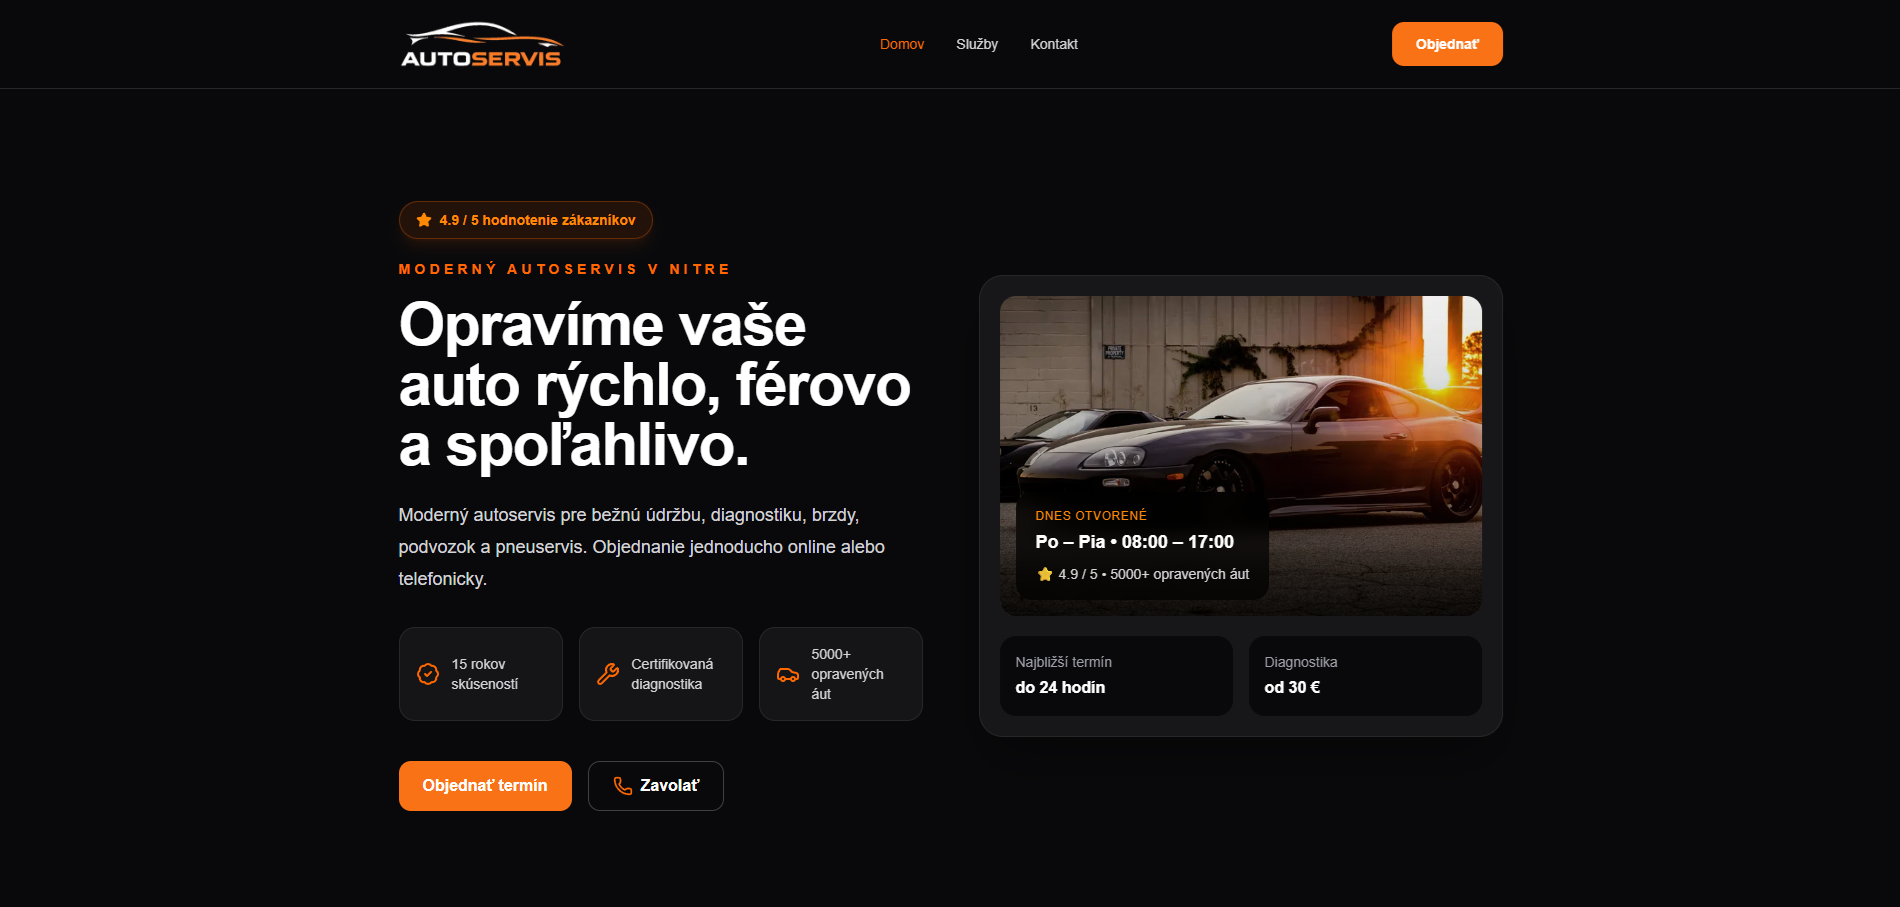
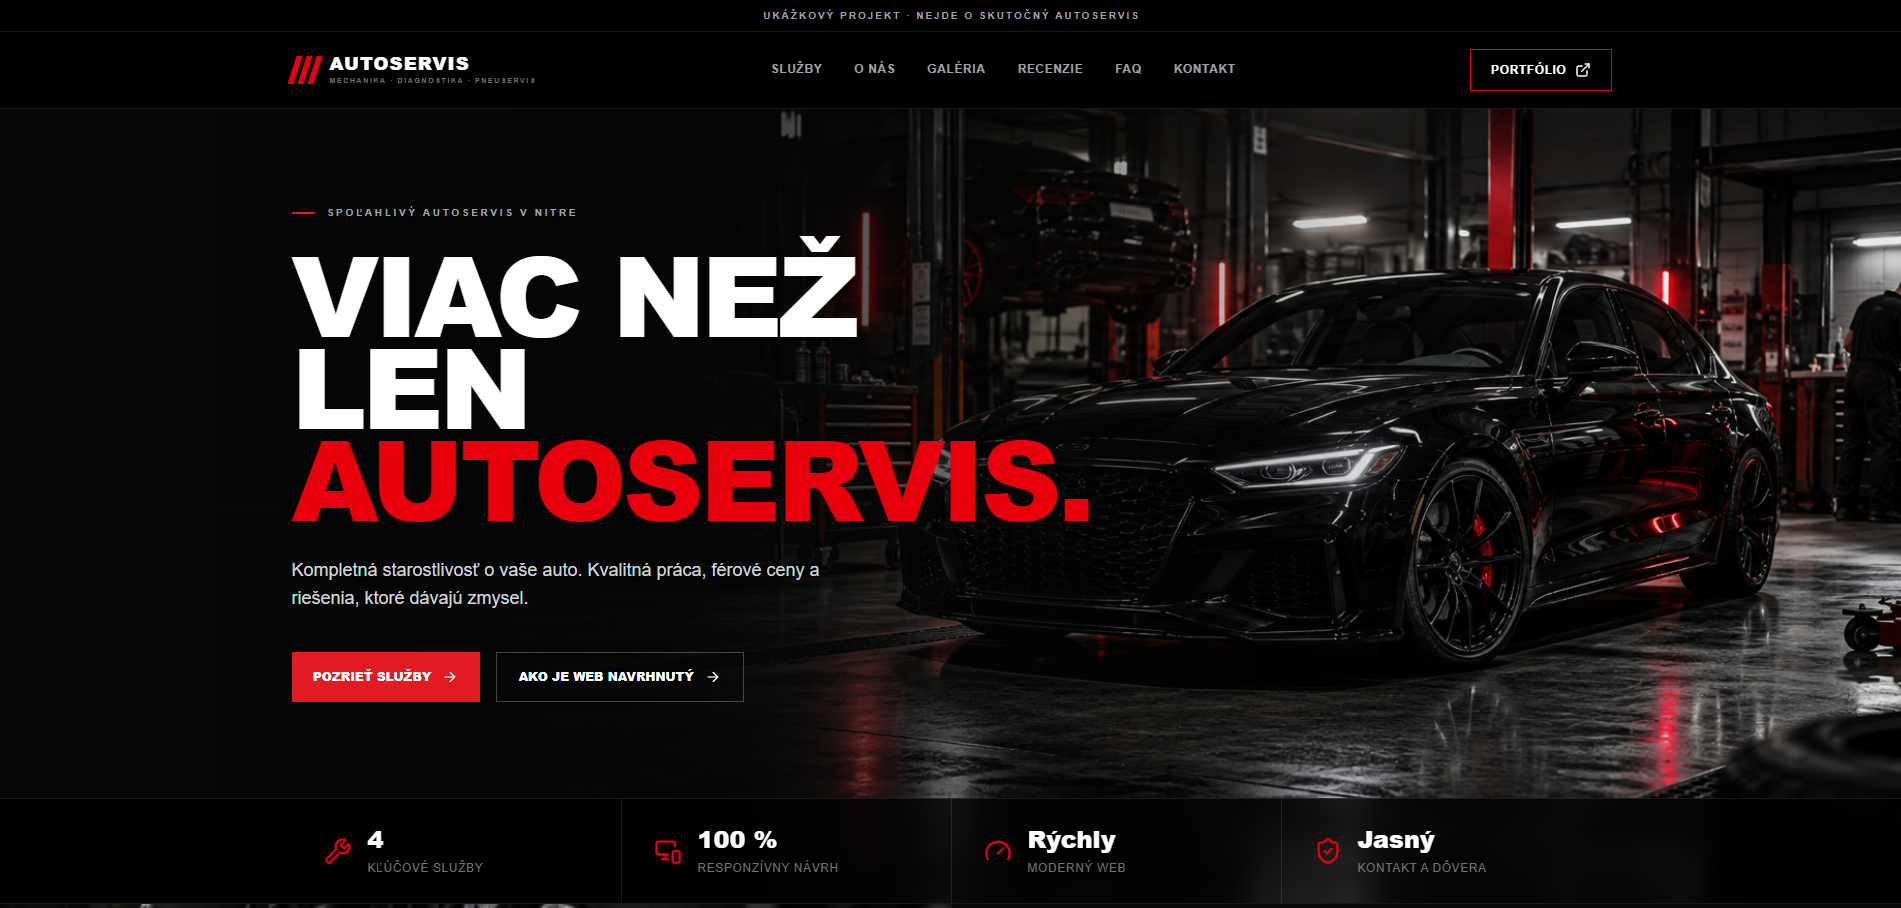
feat: update autoservis redesign case study

diff --git a/data/projects.ts b/data/projects.ts
@@ -90,11 +90,11 @@ export const projects: Project[] = [
     category: "Automotive",
     year: "2026",
     description:
-      "Ukážkový koncept firemného webu pre lokálny autoservis so zameraním na dôveru a jednoduché objednanie servisu.",
+      "Výrazný tmavý koncept webu pre autoservis s technickou typografiou, prémiovým obrazovým hero a červenými akcentmi.",
     goal:
-      "Vytvoriť prehľadnú online prezentáciu, v ktorej zákazník rýchlo nájde služby, kontaktné údaje a možnosti objednania.",
+      "Odlíšiť autoservis od bežných šablón, jasne predstaviť služby a vybudovať profesionálny dojem už počas prvých sekúnd.",
     result:
-      "Responzívny web s prehľadom služieb, prehľadom služieb, jasnou navigáciou, responzívnym zobrazením a optimalizovaným načítaním.",
+      "Responzívny web s individuálnym layoutom, výraznou vizuálnou hierarchiou, prehľadom služieb, mobilnou navigáciou a optimalizovaným načítaním.",
     image: "/images/projects/autoservis.png",
     caseStudyUrl: "/blog/case-study-autoservis",
     technologies: [
